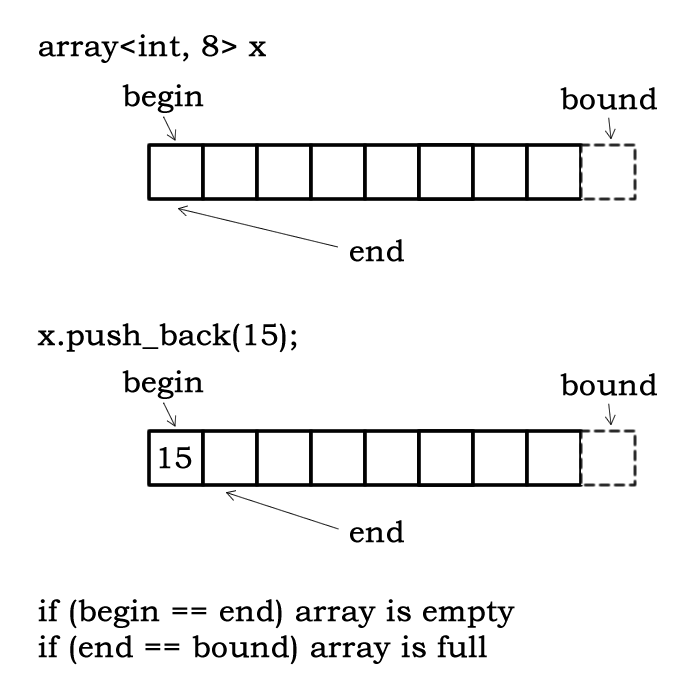
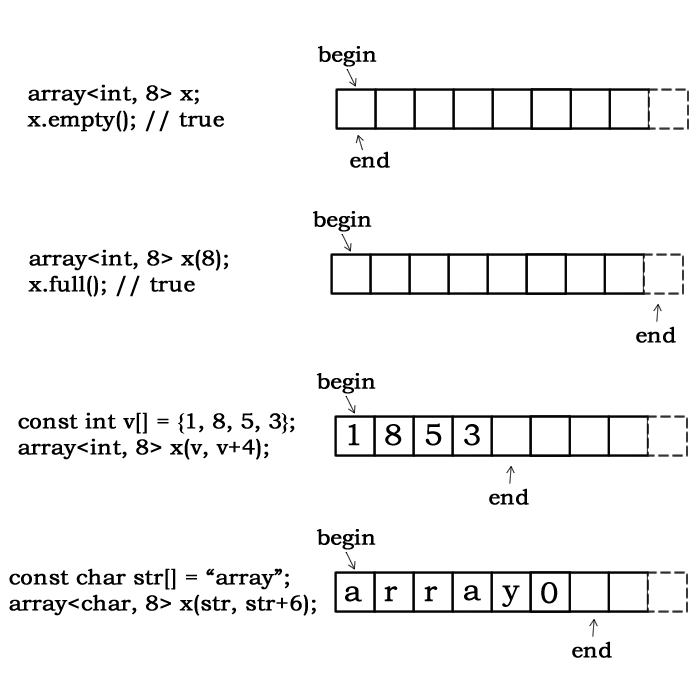
libarray v.0.0.2

diff --git a/array.h b/array.h
@@ -24,6 +24,7 @@
 #define __ARRAY_H__
 
 #include "Arduino.h"
+#include "algorithm.h"
 
 #define SemiRegular typename // T() = 
 #define Regular typename  // T() = == !=  
@@ -41,61 +42,56 @@ struct array {
   typedef const T* const_iterator;
 private:
   value_type data[S];
+  #define first data
   iterator last;
-  #define first data    // const_iterator would consume more memory :(
+  #define end_of_storage data+S
 public:
   array() : last(first) {}
-  array(iterator f, iterator l) : last(first) {
-    while (l - f > S) --l; // (fast?) bound protection;
-    while (f != l) {
-      *last = *f;
-      ++last;
-      ++f;
-    }
+  array(const size_type& cap) : last(first) { reserve(cap); }
+  array(iterator s_first, iterator s_last) : last(first) {
+    last = copy(s_first, s_last, first, end_of_storage);
+  }
+  array(const_iterator s_first, const_iterator s_last) : last(first) {
+    last = copy(s_first, s_last, first, end_of_storage);
   }
 
-  // Bound checking access. (Slow) 
-  void push_back(const_reference val) {
+  void push_back(const_reference value) {
     if (full()) return;
-    *last = val;
+    *last = value;
     ++last;  
   }
   void pop_back() { 
     if (empty()) return;
     --last; 
   }
-
-  reference operator[](const size_type& i) { return *(begin() + i); }
-  const_reference operator[](const size_type& i) const { return *(begin() + i); }
+  
+  reference operator[](const size_type& i) { return *(first + i); }
+  const_reference operator[](const size_type& i) const { return *(first + i); }
 
   size_type size() const { return (last - first); } 
   size_type max_size() const { return S; } 
   bool empty() const { return first == last; } 
-  bool full() const { return last == (first + S); }
+  bool full() const { return last == data+S; }
+  void reserve(const size_type& new_cap) { 
+    if (new_cap > S) return;
+    last = first + new_cap;
+  }
 
-  friend
-  iterator begin(array& x) { return x.begin(); }
   iterator begin() { return first; }
-
-  friend
-  const_iterator begin(const array& x) { return x.begin(); }
   const_iterator begin() const { return first; }
 
-  friend
-  iterator end(array& x) { return x.end(); }
-  iterator end() { return last; }
+  friend 
+  iterator begin(array& x) { return x.begin(); }
+  friend 
+  const_iterator begin(const array& x) { return x.begin(); }
 
-  friend
-  const_iterator end(const array& x) { return x.end(); }
+  iterator end() { return last; }
   const_iterator end() const { return last; }
 
-  friend
-  iterator bound(array& x) { return x.bound(); }
-  iterator bound() { return (data + S); }
-
-  friend
-  const_iterator bound(const array& x) { return x.bound(); }
-  const_iterator bound() const { return (data + S); }
+  friend 
+  iterator end(array& x) { return x.end(); }
+  friend 
+  const_iterator end(const array& x) { return x.end(); }
 };
 
 template <Regular T, size_t S>
@@ -153,7 +149,5 @@ template <TotallyOrdered T, size_t S>
 bool operator>=(array<T, S>& x, array<T, S>& y) {
   return !(x < y);
 }
-
-
 
 #endif

diff --git a/algorithm.h b/algorithm.h
@@ -1,0 +1,39 @@
+#ifndef __ALGORITHM_H__
+#define __ALGORITHM_H__
+
+template <typename I, typename T>
+void accumulate(I first, I last, T& x) {
+  while (first != last) {
+    x += *first; // accumulate result
+    ++first; // go to next element
+  }
+}
+
+template <typename I, typename S>
+void print_range(I first, I last, S stream) {
+  while (first != last) {
+    stream.print(*first);
+    stream.print(" ");
+    ++first; // go to next element
+  }
+  stream.print("\r\n");
+}
+
+template <typename I, typename T>
+void iota(I first, I last, T val) {
+  while (first != last) {
+    *first = val;
+    ++first; // go to next element
+    ++val;
+  }
+}
+
+template<typename I>
+I copy(I s_first, I s_last, I d_first, I d_last)
+{
+  while (s_first != s_last && d_first != d_last) {
+    *d_first++ = *s_first++;
+  }
+  return d_first;
+}
+#endif

diff --git a/README.md b/README.md
@@ -1,27 +1,35 @@
 Array
 =====
 
-Fixed Size Array C++ Abstraction for Arduino.
+Fixed Size Array C++ Library for Arduino.
+
+Visual Diagram
+=====
+![](https://raw.githubusercontent.com/rodolfo-picoreti/array/master/array.png)
 
 Usage
 =====
 
-- Construction
+- ### Construction
 
-  (1) Default Constructor:   array\<type, size> x;
+  (1) Default Constructor:   **array\<type, size> x;**
  
       array<int, 10> x; // integer array with size equals to 10;
 
-  (2) From Iterator Range:   array\<type, size> x(I first, I last);
+  (2) Construct and Reserve:  **array\<type, size> x(size_type capacity);**
+ 
+      array<int, 10> x(10); // integer array with size equals to 10 and using full capacity;
+
+  (3) From Iterator Range:   **array\<type, size> x(I first, I last);**
   
       int x[] = {0, 1, 2, 3, 4, 5, 6, 7};
       array<int, 10> y(x, x+8); // y now have {0, 1, 2, 3, 4, 5, 6, 7}
       array<int, 3> z(begin(y), end(y)); // z now have {0, 1, 2}
       
 
-- Insert/Remove Element at end with bound checking (slow):
+- ### Insert/Remove Element at end with bound checking:
 
-  (1) Insert Element at End:   void push_back(const T& val);
+  (1) Insert Element at End:   **void push_back(const T& value);**
   
       array<int, 10> x;
       
@@ -30,7 +38,7 @@ Usage
       }
       // x = {0, 1, 2, 3, 4, 5, 6, 7, 8, 9}
 
-  (2) Remove Element at End:   void pop_back();
+  (2) Remove Element at End:   **void pop_back();**
   
       array<int, 10> x;
       x.push_back(150); // x = {150}
@@ -39,73 +47,57 @@ Usage
       // x = {150}
       
 
-- Capacity
+- ### Capacity
 
-  (1) Get Array Current Size:    size_type size() const;
+  (1) Get Array Current Size:    **size_type size() const;**
       
       array<int, 10> x;
       x.push_back(50); 
       x.size(); // will return 1;
   
-  (2) Get Array Maximum Size:    size_type max_size() const;
+  (2) Get Array Maximum Size:    **size_type max_size() const;**
       
       array<int, 10> x;
       x.max_size(); // will return 10;
       
-  (3) Check if Array is Empty:    bool empty() const;
+  (3) Check if Array is Empty:    **bool empty() const;**
       
       array<int, 10> x;
       x.empty(); // will return true;
   
-  (4) Check if Array is Full:    bool full() const;
+  (4) Check if Array is Full:    **bool full() const;**
       
       array<int, 10> x;
       for (uint8_t i = 0; i < 20; ++i) {
         x.push_back(i);
       }
       x.full(); // will return true;
-      
 
-- Iterators
+      array<int, 10> y(10);
+      y.full(); // will return true;
 
-  (1) Get an Iterator to the First Element :    iterator begin(array& x);
+  (5) Change Array Capacity: **void reserve(size_type new_capacity);**
+
+      array<int, 10> x;
+      x.reserve(10);
+
+      array<int, 10> y;
+      y.reserve(14); // do nothing 
+
+- ### Iterators
+
+  (1) Get an Iterator to the First Element :    **iterator begin(array& x);**
 
       array<int, 10> x; 
       begin(x); // returns a pointer to x[0];
       
-  (2) Get an Iterator to the Last Element:    iterator end(array& x);
+  (2) Get an Iterator to the Last Element:    **iterator end(array& x);**
 
       array<int, 10> x; 
       end(x); // returns a pointer to x[0];
       x.push_back(4);
       end(x); // returns a pointer to x[1];
-      
-  (2) Get an Iterator to the Boundary Element:    iterator bound(array& x);
-
-      /* Note that x[10] should never be dereferenced, 
-         it just marks the end of the container in memory!!
-      */
-      array<int, 10> x; 
-      bound(x); // returns a pointer to x[10];
-      x.push_back(4);
-      end(x); // returns a pointer to x[10];
-      
             
-- Insert/Remove Element at end without bound checking (fast):
+- ### Insert/Remove Element at end without bound checking:
 
-  (1) Iterator Dereference, Increment and Decrement. 
-   
-      // Should be used when implementing algorithms.
-      array<int, 10> x;
-      array<int, 10>::iterator it = end(x); // generic usage
-      // or in this case:
-      // int* it = end(x);
-      
-      for (uint8_t i = 0; i < 5; ++i) {
-        *it = i;
-        ++it;
-      }
-      // x = {1, 2, 3, 4, 5}
-      
-      --it;
-      // x = {1, 2, 3, 4}
+  // soon
